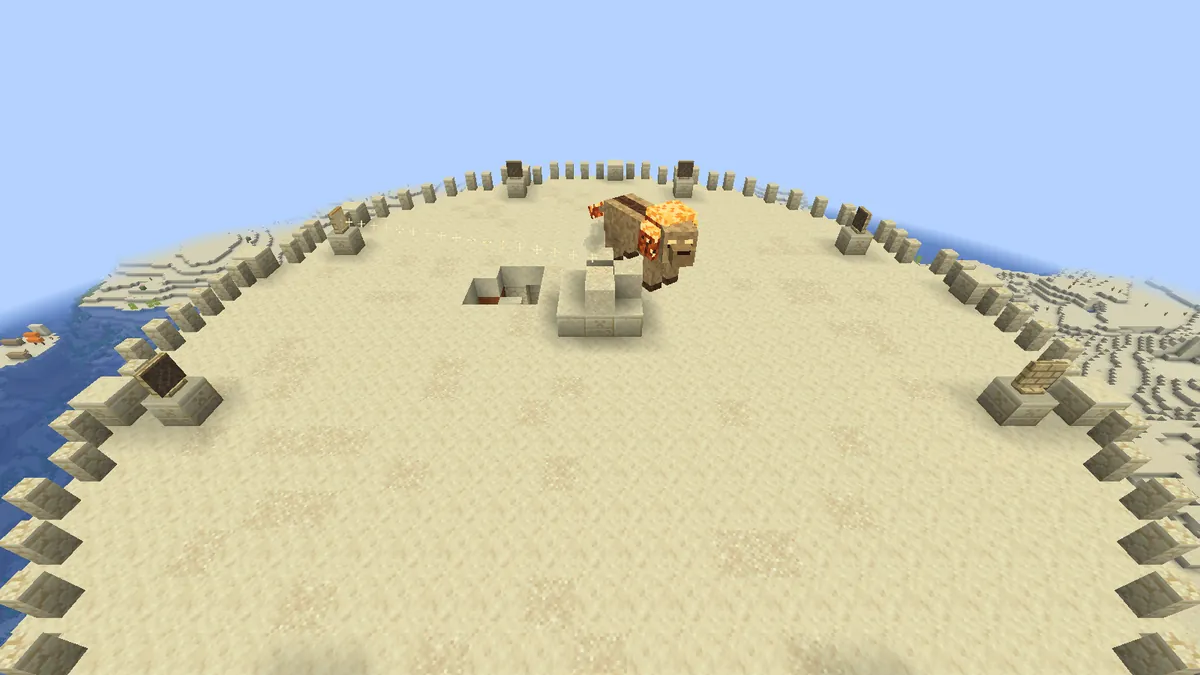
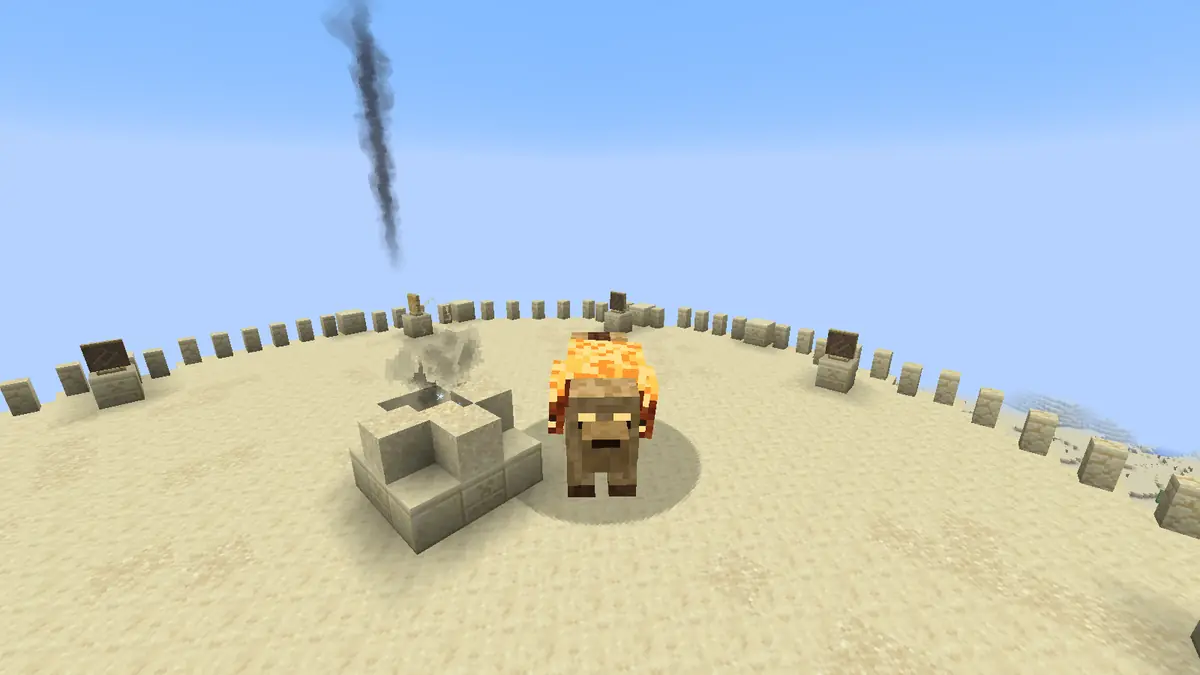
오픈크래프트 소개: 스크린샷을 0.4.0 베타 1 화면으로 새로 찍어 바꿈 (세 지역 탑 · 보스 · 야영지 · 필드몹, 켜진 봉화, 대장간 · 일지, 9장 → 13장, 무게는 그대로)

diff --git a/p/opencraft/index.html b/p/opencraft/index.html
@@ -73,104 +73,148 @@
       <div class="gallery">
         <figure>
           <button class="shot" type="button" popovertarget="lb-swamp-tower" aria-label="크게 보기: 늪 봉화탑">
-            <img src="../../assets/opencraft/swamp-tower-t.webp" srcset="../../assets/opencraft/swamp-tower-t.webp 400w, ../../assets/opencraft/swamp-tower.webp 1200w" sizes="(max-width: 920px) 100vw, 780px" alt="숲과 물가 사이에 선 이끼 낀 석재 · 맹그로브 늪 봉화탑, 하늘에 멀리 켜진 봉화 기둥" width="1200" height="675">
+            <img src="../../assets/opencraft/swamp-tower-t.webp" srcset="../../assets/opencraft/swamp-tower-t.webp 400w, ../../assets/opencraft/swamp-tower.webp 1200w" sizes="(max-width: 920px) 100vw, 780px" alt="물가 숲 사이에 선 이끼 낀 석재 · 맹그로브 늪 봉화탑과 둘레의 바다 · 모래톱" width="1200" height="675">
           </button>
-          <figcaption>늪 봉화탑. 이끼 낀 석재 · 맹그로브 탑이 물가에 섭니다. 하늘의 불빛 줄기는 멀리 켜진 다른 봉화입니다.</figcaption>
+          <figcaption>늪 봉화탑. 이끼 낀 석재 · 맹그로브 탑이 물가에 섭니다. 꼭대기 전투장에 보스가 잠들어 있습니다.</figcaption>
         </figure>
         <figure>
           <button class="shot" type="button" popovertarget="lb-swamp-boss" aria-label="크게 보기: 썩은 뿌리">
-            <img src="../../assets/opencraft/swamp-boss-t.webp" srcset="../../assets/opencraft/swamp-boss-t.webp 400w, ../../assets/opencraft/swamp-boss.webp 1200w" sizes="(max-width: 600px) 100vw, 380px" alt="이끼 낀 돌 전투장 위의 보스 썩은 뿌리와 둘레의 맹그로브 울타리 · 수문" width="400" height="225" loading="lazy">
+            <img src="../../assets/opencraft/swamp-boss-t.webp" srcset="../../assets/opencraft/swamp-boss-t.webp 400w, ../../assets/opencraft/swamp-boss.webp 1200w" sizes="(max-width: 600px) 100vw, 380px" alt="이끼 낀 돌 전투장 위에서 뿌리를 뻗은 보스 썩은 뿌리와 봉화대, 둘레의 맹그로브 울타리" width="400" height="225" loading="lazy">
           </button>
           <figcaption>보스 썩은 뿌리. 전투장이 물에 잠기면 둘레의 수문을 모두 열어 물을 빼야 크게 맞습니다.</figcaption>
         </figure>
         <figure>
-          <button class="shot" type="button" popovertarget="lb-desert-boss" aria-label="크게 보기: 그을린 갈기와 거울">
-            <img src="../../assets/opencraft/desert-boss-t.webp" srcset="../../assets/opencraft/desert-boss-t.webp 400w, ../../assets/opencraft/desert-boss.webp 1200w" sizes="(max-width: 600px) 100vw, 380px" alt="사막 전투장 위의 보스 그을린 갈기, 둘레의 거울에서 봉화대로 이어지는 빛 줄기" width="400" height="225" loading="lazy">
+          <button class="shot" type="button" popovertarget="lb-swamp-camp" aria-label="크게 보기: 늪 야영지">
+            <img src="../../assets/opencraft/swamp-camp-t.webp" srcset="../../assets/opencraft/swamp-camp-t.webp 400w, ../../assets/opencraft/swamp-camp.webp 1200w" sizes="(max-width: 600px) 100vw, 380px" alt="물에 반쯤 잠긴 가라앉은 오두막 야영지와 늪 우두머리, 뒤로 보이는 늪 봉화탑" width="400" height="225" loading="lazy">
           </button>
-          <figcaption>보스 그을린 갈기. 봉화대 곁으로 물러나면 거울을 돌려 빛을 봉화대에 모읍니다.</figcaption>
+          <figcaption>늪 야영지 가라앉은 오두막. 앞은 늪 우두머리, 뒤로 늪 봉화탑이 보입니다.</figcaption>
         </figure>
         <figure>
           <button class="shot" type="button" popovertarget="lb-desert-tower" aria-label="크게 보기: 사막 봉화탑">
-            <img src="../../assets/opencraft/desert-tower-t.webp" srcset="../../assets/opencraft/desert-tower-t.webp 400w, ../../assets/opencraft/desert-tower.webp 1200w" sizes="(max-width: 600px) 100vw, 380px" alt="모래 언덕과 바다 사이에 선 사암 · 테라코타 사막 봉화탑, 꼭대기에서 연기가 오름" width="400" height="225" loading="lazy">
+            <img src="../../assets/opencraft/desert-tower-t.webp" srcset="../../assets/opencraft/desert-tower-t.webp 400w, ../../assets/opencraft/desert-tower.webp 1200w" sizes="(max-width: 600px) 100vw, 380px" alt="모래 언덕과 바다 사이에 선 사암 · 테라코타 사막 봉화탑과 곁의 대장간" width="400" height="225" loading="lazy">
           </button>
-          <figcaption>사막 봉화탑. 사암 · 테라코타 탑이 사막 가운데에 섭니다.</figcaption>
+          <figcaption>사막 봉화탑. 사암 · 테라코타 탑이 사막 가운데에 섭니다. 아래 작은 지붕은 봉화탑 대장간입니다.</figcaption>
         </figure>
         <figure>
-          <button class="shot" type="button" popovertarget="lb-tower" aria-label="크게 보기: 설원 봉화탑">
-            <img src="../../assets/opencraft/tower-t.webp" srcset="../../assets/opencraft/tower-t.webp 400w, ../../assets/opencraft/tower.webp 1200w" sizes="(max-width: 600px) 100vw, 380px" alt="눈 덮인 산 위에 선 꺼진 설원 봉화탑, 꼭대기에 보스 전투장" width="400" height="225" loading="lazy">
+          <button class="shot" type="button" popovertarget="lb-desert-boss" aria-label="크게 보기: 그을린 갈기">
+            <img src="../../assets/opencraft/desert-boss-t.webp" srcset="../../assets/opencraft/desert-boss-t.webp 400w, ../../assets/opencraft/desert-boss.webp 1200w" sizes="(max-width: 600px) 100vw, 380px" alt="사막 전투장 봉화대 곁에서 갈기가 타오르는 보스 그을린 갈기" width="400" height="225" loading="lazy">
+          </button>
+          <figcaption>보스 그을린 갈기. 봉화대 곁으로 물러나면 둘레의 거울을 돌려 빛을 봉화대에 모읍니다.</figcaption>
+        </figure>
+        <figure>
+          <button class="shot" type="button" popovertarget="lb-desert-camp" aria-label="크게 보기: 사막 야영지">
+            <img src="../../assets/opencraft/desert-camp-t.webp" srcset="../../assets/opencraft/desert-camp-t.webp 400w, ../../assets/opencraft/desert-camp.webp 1200w" sizes="(max-width: 600px) 100vw, 380px" alt="강가 모래톱 위의 무너진 대상 야영지와 차양 · 짐 사이의 모래 무리, 앞쪽의 모래 우두머리" width="400" height="225" loading="lazy">
+          </button>
+          <figcaption>사막 야영지 무너진 대상. 우두머리가 무리를 거느리고, 쓸어내면 상자를 엽니다.</figcaption>
+        </figure>
+        <figure>
+          <button class="shot" type="button" popovertarget="lb-desert-mobs" aria-label="크게 보기: 사막 필드몹">
+            <img src="../../assets/opencraft/desert-mobs-t.webp" srcset="../../assets/opencraft/desert-mobs-t.webp 400w, ../../assets/opencraft/desert-mobs.webp 1200w" sizes="(max-width: 600px) 100vw, 380px" alt="모래 언덕 앞에 선 모래 잠행자 · 바람 투석꾼 · 모래 우두머리" width="400" height="225" loading="lazy">
+          </button>
+          <figcaption>사막 필드몹. 모래 잠행자 · 바람 투석꾼, 오른쪽은 야영지의 모래 우두머리.</figcaption>
+        </figure>
+        <figure>
+          <button class="shot" type="button" popovertarget="lb-snow-tower" aria-label="크게 보기: 설원 봉화탑">
+            <img src="../../assets/opencraft/snow-tower-t.webp" srcset="../../assets/opencraft/snow-tower-t.webp 400w, ../../assets/opencraft/snow-tower.webp 1200w" sizes="(max-width: 600px) 100vw, 380px" alt="눈 덮인 숲 언덕 위에 선 설원 봉화탑과 곁의 대장간" width="400" height="225" loading="lazy">
           </button>
           <figcaption>설원 봉화탑. 꼭대기 전투장에 보스가 잠들어 있고, 쓰러뜨리면 봉화가 켜집니다.</figcaption>
         </figure>
         <figure>
-          <button class="shot" type="button" popovertarget="lb-boss" aria-label="크게 보기: 서리 큰뿔 얼음 갑옷">
-            <img src="../../assets/opencraft/boss-t.webp" srcset="../../assets/opencraft/boss-t.webp 400w, ../../assets/opencraft/boss.webp 1200w" sizes="(max-width: 600px) 100vw, 380px" alt="전투장 위의 보스 서리 큰뿔과 둘레의 꺼진 화로" width="400" height="225" loading="lazy">
+          <button class="shot" type="button" popovertarget="lb-snow-boss" aria-label="크게 보기: 서리 큰뿔">
+            <img src="../../assets/opencraft/snow-boss-t.webp" srcset="../../assets/opencraft/snow-boss-t.webp 400w, ../../assets/opencraft/snow-boss.webp 1200w" sizes="(max-width: 600px) 100vw, 380px" alt="얼음 갑옷을 두른 보스 서리 큰뿔과 봉화대, 뒤로 불이 켜진 화로" width="400" height="225" loading="lazy">
           </button>
-          <figcaption>보스 서리 큰뿔. 얼음 갑옷을 두르면 불씨를 날라 화로를 켭니다.</figcaption>
+          <figcaption>보스 서리 큰뿔. 얼음 갑옷을 두르면 불씨를 날라 둘레의 화로를 켭니다.</figcaption>
         </figure>
         <figure>
-          <button class="shot" type="button" popovertarget="lb-arena" aria-label="크게 보기: 전투장">
-            <img src="../../assets/opencraft/arena-t.webp" srcset="../../assets/opencraft/arena-t.webp 400w, ../../assets/opencraft/arena.webp 1200w" sizes="(max-width: 600px) 100vw, 380px" alt="위에서 내려다본 봉화탑 꼭대기의 둥근 전투장" width="400" height="225" loading="lazy">
+          <button class="shot" type="button" popovertarget="lb-snow-mobs" aria-label="크게 보기: 설원 필드몹">
+            <img src="../../assets/opencraft/snow-mobs-t.webp" srcset="../../assets/opencraft/snow-mobs-t.webp 400w, ../../assets/opencraft/snow-mobs.webp 1200w" sizes="(max-width: 600px) 100vw, 380px" alt="숲 풀밭에 선 서리 늑대 · 얼음 투척꾼 · 야영지 우두머리" width="400" height="225" loading="lazy">
           </button>
-          <figcaption>위에서 본 전투장. 사람이 오면 정리되고 보호됩니다.</figcaption>
+          <figcaption>설원 필드몹. 서리 늑대 · 얼음 투척꾼, 오른쪽은 야영지 우두머리.</figcaption>
         </figure>
         <figure>
-          <button class="shot" type="button" popovertarget="lb-forge" aria-label="크게 보기: 봉화탑 대장간">
-            <img src="../../assets/opencraft/forge-t.webp" srcset="../../assets/opencraft/forge-t.webp 400w, ../../assets/opencraft/forge.webp 1200w" sizes="(max-width: 600px) 100vw, 380px" alt="처마 아래 대장간 모루 뒤에 선 봉화지기" width="400" height="225" loading="lazy">
+          <button class="shot" type="button" popovertarget="lb-night" aria-label="크게 보기: 켜진 봉화">
+            <img src="../../assets/opencraft/night-t.webp" srcset="../../assets/opencraft/night-t.webp 400w, ../../assets/opencraft/night.webp 1200w" sizes="(max-width: 600px) 100vw, 380px" alt="밤하늘로 불빛 기둥이 솟은 해방된 설원 봉화탑" width="400" height="225" loading="lazy">
           </button>
-          <figcaption>봉화탑 대장간과 봉화지기. 수리 · 옵션 추가 · 재설정.</figcaption>
+          <figcaption>해방한 봉화탑. 보스를 처음 쓰러뜨리면 봉화가 켜지고, 밤에는 멀리서도 불빛 기둥이 보입니다.</figcaption>
         </figure>
         <figure>
-          <button class="shot" type="button" popovertarget="lb-journal" aria-label="크게 보기: 모험 일지 능력 탭">
-            <img src="../../assets/opencraft/journal-t.webp" srcset="../../assets/opencraft/journal-t.webp 400w, ../../assets/opencraft/journal.webp 1200w" sizes="(max-width: 600px) 100vw, 380px" alt="모험 일지 능력 탭: 서리 길과 추위 막기의 강화 단계와 재료" width="400" height="225" loading="lazy">
+          <button class="shot" type="button" popovertarget="lb-forge" aria-label="크게 보기: 대장간">
+            <img src="../../assets/opencraft/forge-t.webp" srcset="../../assets/opencraft/forge-t.webp 400w, ../../assets/opencraft/forge.webp 1200w" sizes="(max-width: 600px) 100vw, 380px" alt="봉화탑 대장간 화면: 장비 옵션 두 줄과 수리 · 옵션 추가 · 재설정 · 분해 단추" width="400" height="225" loading="lazy">
           </button>
-          <figcaption>모험 일지의 능력 탭. 보스 재료로 능력을 강화합니다.</figcaption>
+          <figcaption>봉화탑 대장간. 지역 결정으로 수리하고 옵션을 더하거나 다시 굴립니다.</figcaption>
+        </figure>
+        <figure>
+          <button class="shot" type="button" popovertarget="lb-journal" aria-label="크게 보기: 모험 일지">
+            <img src="../../assets/opencraft/journal-t.webp" srcset="../../assets/opencraft/journal-t.webp 400w, ../../assets/opencraft/journal.webp 1200w" sizes="(max-width: 600px) 100vw, 380px" alt="모험 일지 장비 탭: 부위별 옵션, 몸 전체 합계, 수렁 세트 3/5 효과" width="400" height="225" loading="lazy">
+          </button>
+          <figcaption>모험 일지의 장비 탭. 입은 장비의 옵션 합계와 지역 세트 효과를 봅니다.</figcaption>
         </figure>
       </div>
-      <p class="shot-note">개발 중 화면입니다. 텍스처 · 모델 · 이펙트는 계속 다듬고 있습니다.</p>
+      <p class="shot-note">0.4.0 베타 1 게임 화면입니다 (HUD를 숨기고 찍음). 텍스처 · 모델 · 이펙트는 계속 다듬고 있습니다.</p>
 
       <div class="lb" popover id="lb-swamp-tower">
-        <img src="../../assets/opencraft/swamp-tower.webp" alt="숲과 물가 사이에 선 이끼 낀 석재 · 맹그로브 늪 봉화탑, 하늘에 멀리 켜진 봉화 기둥" width="1200" height="675" loading="lazy">
-        <p>늪 봉화탑. 이끼 낀 석재 · 맹그로브 탑이 물가에 섭니다. 하늘의 불빛 줄기는 멀리 켜진 다른 봉화입니다.</p>
+        <img src="../../assets/opencraft/swamp-tower.webp" alt="물가 숲 사이에 선 이끼 낀 석재 · 맹그로브 늪 봉화탑과 둘레의 바다 · 모래톱" width="1200" height="675" loading="lazy">
+        <p>늪 봉화탑. 이끼 낀 석재 · 맹그로브 탑이 물가에 섭니다. 꼭대기 전투장에 보스가 잠들어 있습니다.</p>
         <button class="lb-close" type="button" popovertarget="lb-swamp-tower" popovertargetaction="hide" aria-label="닫기"><svg viewBox="0 0 24 24" fill="none" stroke="currentColor" stroke-width="2.4" stroke-linecap="round" aria-hidden="true"><path d="M6 6l12 12M18 6L6 18"/></svg></button>
       </div>
       <div class="lb" popover id="lb-swamp-boss">
-        <img src="../../assets/opencraft/swamp-boss.webp" alt="이끼 낀 돌 전투장 위의 보스 썩은 뿌리와 둘레의 맹그로브 울타리 · 수문" width="1200" height="675" loading="lazy">
+        <img src="../../assets/opencraft/swamp-boss.webp" alt="이끼 낀 돌 전투장 위에서 뿌리를 뻗은 보스 썩은 뿌리와 봉화대, 둘레의 맹그로브 울타리" width="1200" height="675" loading="lazy">
         <p>보스 썩은 뿌리. 전투장이 물에 잠기면 둘레의 수문을 모두 열어 물을 빼야 크게 맞습니다.</p>
         <button class="lb-close" type="button" popovertarget="lb-swamp-boss" popovertargetaction="hide" aria-label="닫기"><svg viewBox="0 0 24 24" fill="none" stroke="currentColor" stroke-width="2.4" stroke-linecap="round" aria-hidden="true"><path d="M6 6l12 12M18 6L6 18"/></svg></button>
       </div>
-      <div class="lb" popover id="lb-desert-boss">
-        <img src="../../assets/opencraft/desert-boss.webp" alt="사막 전투장 위의 보스 그을린 갈기, 둘레의 거울에서 봉화대로 이어지는 빛 줄기" width="1200" height="675" loading="lazy">
-        <p>보스 그을린 갈기. 봉화대 곁으로 물러나면 거울을 돌려 빛을 봉화대에 모읍니다.</p>
-        <button class="lb-close" type="button" popovertarget="lb-desert-boss" popovertargetaction="hide" aria-label="닫기"><svg viewBox="0 0 24 24" fill="none" stroke="currentColor" stroke-width="2.4" stroke-linecap="round" aria-hidden="true"><path d="M6 6l12 12M18 6L6 18"/></svg></button>
+      <div class="lb" popover id="lb-swamp-camp">
+        <img src="../../assets/opencraft/swamp-camp.webp" alt="물에 반쯤 잠긴 가라앉은 오두막 야영지와 늪 우두머리, 뒤로 보이는 늪 봉화탑" width="1200" height="675" loading="lazy">
+        <p>늪 야영지 가라앉은 오두막. 앞은 늪 우두머리, 뒤로 늪 봉화탑이 보입니다.</p>
+        <button class="lb-close" type="button" popovertarget="lb-swamp-camp" popovertargetaction="hide" aria-label="닫기"><svg viewBox="0 0 24 24" fill="none" stroke="currentColor" stroke-width="2.4" stroke-linecap="round" aria-hidden="true"><path d="M6 6l12 12M18 6L6 18"/></svg></button>
       </div>
       <div class="lb" popover id="lb-desert-tower">
-        <img src="../../assets/opencraft/desert-tower.webp" alt="모래 언덕과 바다 사이에 선 사암 · 테라코타 사막 봉화탑, 꼭대기에서 연기가 오름" width="1200" height="675" loading="lazy">
-        <p>사막 봉화탑. 사암 · 테라코타 탑이 사막 가운데에 섭니다.</p>
+        <img src="../../assets/opencraft/desert-tower.webp" alt="모래 언덕과 바다 사이에 선 사암 · 테라코타 사막 봉화탑과 곁의 대장간" width="1200" height="675" loading="lazy">
+        <p>사막 봉화탑. 사암 · 테라코타 탑이 사막 가운데에 섭니다. 아래 작은 지붕은 봉화탑 대장간입니다.</p>
         <button class="lb-close" type="button" popovertarget="lb-desert-tower" popovertargetaction="hide" aria-label="닫기"><svg viewBox="0 0 24 24" fill="none" stroke="currentColor" stroke-width="2.4" stroke-linecap="round" aria-hidden="true"><path d="M6 6l12 12M18 6L6 18"/></svg></button>
       </div>
-      <div class="lb" popover id="lb-tower">
-        <img src="../../assets/opencraft/tower.webp" alt="눈 덮인 산 위에 선 꺼진 설원 봉화탑, 꼭대기에 보스 전투장" width="1200" height="675" loading="lazy">
+      <div class="lb" popover id="lb-desert-boss">
+        <img src="../../assets/opencraft/desert-boss.webp" alt="사막 전투장 봉화대 곁에서 갈기가 타오르는 보스 그을린 갈기" width="1200" height="675" loading="lazy">
+        <p>보스 그을린 갈기. 봉화대 곁으로 물러나면 둘레의 거울을 돌려 빛을 봉화대에 모읍니다.</p>
+        <button class="lb-close" type="button" popovertarget="lb-desert-boss" popovertargetaction="hide" aria-label="닫기"><svg viewBox="0 0 24 24" fill="none" stroke="currentColor" stroke-width="2.4" stroke-linecap="round" aria-hidden="true"><path d="M6 6l12 12M18 6L6 18"/></svg></button>
+      </div>
+      <div class="lb" popover id="lb-desert-camp">
+        <img src="../../assets/opencraft/desert-camp.webp" alt="강가 모래톱 위의 무너진 대상 야영지와 차양 · 짐 사이의 모래 무리, 앞쪽의 모래 우두머리" width="1200" height="675" loading="lazy">
+        <p>사막 야영지 무너진 대상. 우두머리가 무리를 거느리고, 쓸어내면 상자를 엽니다.</p>
+        <button class="lb-close" type="button" popovertarget="lb-desert-camp" popovertargetaction="hide" aria-label="닫기"><svg viewBox="0 0 24 24" fill="none" stroke="currentColor" stroke-width="2.4" stroke-linecap="round" aria-hidden="true"><path d="M6 6l12 12M18 6L6 18"/></svg></button>
+      </div>
+      <div class="lb" popover id="lb-desert-mobs">
+        <img src="../../assets/opencraft/desert-mobs.webp" alt="모래 언덕 앞에 선 모래 잠행자 · 바람 투석꾼 · 모래 우두머리" width="1200" height="675" loading="lazy">
+        <p>사막 필드몹. 모래 잠행자 · 바람 투석꾼, 오른쪽은 야영지의 모래 우두머리.</p>
+        <button class="lb-close" type="button" popovertarget="lb-desert-mobs" popovertargetaction="hide" aria-label="닫기"><svg viewBox="0 0 24 24" fill="none" stroke="currentColor" stroke-width="2.4" stroke-linecap="round" aria-hidden="true"><path d="M6 6l12 12M18 6L6 18"/></svg></button>
+      </div>
+      <div class="lb" popover id="lb-snow-tower">
+        <img src="../../assets/opencraft/snow-tower.webp" alt="눈 덮인 숲 언덕 위에 선 설원 봉화탑과 곁의 대장간" width="1200" height="675" loading="lazy">
         <p>설원 봉화탑. 꼭대기 전투장에 보스가 잠들어 있고, 쓰러뜨리면 봉화가 켜집니다.</p>
-        <button class="lb-close" type="button" popovertarget="lb-tower" popovertargetaction="hide" aria-label="닫기"><svg viewBox="0 0 24 24" fill="none" stroke="currentColor" stroke-width="2.4" stroke-linecap="round" aria-hidden="true"><path d="M6 6l12 12M18 6L6 18"/></svg></button>
+        <button class="lb-close" type="button" popovertarget="lb-snow-tower" popovertargetaction="hide" aria-label="닫기"><svg viewBox="0 0 24 24" fill="none" stroke="currentColor" stroke-width="2.4" stroke-linecap="round" aria-hidden="true"><path d="M6 6l12 12M18 6L6 18"/></svg></button>
       </div>
-      <div class="lb" popover id="lb-boss">
-        <img src="../../assets/opencraft/boss.webp" alt="전투장 위의 보스 서리 큰뿔과 둘레의 꺼진 화로" width="1200" height="675" loading="lazy">
-        <p>보스 서리 큰뿔. 얼음 갑옷을 두르면 불씨를 날라 화로를 켭니다.</p>
-        <button class="lb-close" type="button" popovertarget="lb-boss" popovertargetaction="hide" aria-label="닫기"><svg viewBox="0 0 24 24" fill="none" stroke="currentColor" stroke-width="2.4" stroke-linecap="round" aria-hidden="true"><path d="M6 6l12 12M18 6L6 18"/></svg></button>
+      <div class="lb" popover id="lb-snow-boss">
+        <img src="../../assets/opencraft/snow-boss.webp" alt="얼음 갑옷을 두른 보스 서리 큰뿔과 봉화대, 뒤로 불이 켜진 화로" width="1200" height="675" loading="lazy">
+        <p>보스 서리 큰뿔. 얼음 갑옷을 두르면 불씨를 날라 둘레의 화로를 켭니다.</p>
+        <button class="lb-close" type="button" popovertarget="lb-snow-boss" popovertargetaction="hide" aria-label="닫기"><svg viewBox="0 0 24 24" fill="none" stroke="currentColor" stroke-width="2.4" stroke-linecap="round" aria-hidden="true"><path d="M6 6l12 12M18 6L6 18"/></svg></button>
       </div>
-      <div class="lb" popover id="lb-arena">
-        <img src="../../assets/opencraft/arena.webp" alt="위에서 내려다본 봉화탑 꼭대기의 둥근 전투장" width="1200" height="675" loading="lazy">
-        <p>위에서 본 전투장. 사람이 오면 정리되고 보호됩니다.</p>
-        <button class="lb-close" type="button" popovertarget="lb-arena" popovertargetaction="hide" aria-label="닫기"><svg viewBox="0 0 24 24" fill="none" stroke="currentColor" stroke-width="2.4" stroke-linecap="round" aria-hidden="true"><path d="M6 6l12 12M18 6L6 18"/></svg></button>
+      <div class="lb" popover id="lb-snow-mobs">
+        <img src="../../assets/opencraft/snow-mobs.webp" alt="숲 풀밭에 선 서리 늑대 · 얼음 투척꾼 · 야영지 우두머리" width="1200" height="675" loading="lazy">
+        <p>설원 필드몹. 서리 늑대 · 얼음 투척꾼, 오른쪽은 야영지 우두머리.</p>
+        <button class="lb-close" type="button" popovertarget="lb-snow-mobs" popovertargetaction="hide" aria-label="닫기"><svg viewBox="0 0 24 24" fill="none" stroke="currentColor" stroke-width="2.4" stroke-linecap="round" aria-hidden="true"><path d="M6 6l12 12M18 6L6 18"/></svg></button>
+      </div>
+      <div class="lb" popover id="lb-night">
+        <img src="../../assets/opencraft/night.webp" alt="밤하늘로 불빛 기둥이 솟은 해방된 설원 봉화탑" width="1200" height="675" loading="lazy">
+        <p>해방한 봉화탑. 보스를 처음 쓰러뜨리면 봉화가 켜지고, 밤에는 멀리서도 불빛 기둥이 보입니다.</p>
+        <button class="lb-close" type="button" popovertarget="lb-night" popovertargetaction="hide" aria-label="닫기"><svg viewBox="0 0 24 24" fill="none" stroke="currentColor" stroke-width="2.4" stroke-linecap="round" aria-hidden="true"><path d="M6 6l12 12M18 6L6 18"/></svg></button>
       </div>
       <div class="lb" popover id="lb-forge">
-        <img src="../../assets/opencraft/forge.webp" alt="처마 아래 대장간 모루 뒤에 선 봉화지기" width="1200" height="675" loading="lazy">
-        <p>봉화탑 대장간과 봉화지기. 수리 · 옵션 추가 · 재설정.</p>
+        <img src="../../assets/opencraft/forge.webp" alt="봉화탑 대장간 화면: 장비 옵션 두 줄과 수리 · 옵션 추가 · 재설정 · 분해 단추" width="1200" height="675" loading="lazy">
+        <p>봉화탑 대장간. 지역 결정으로 수리하고 옵션을 더하거나 다시 굴립니다.</p>
         <button class="lb-close" type="button" popovertarget="lb-forge" popovertargetaction="hide" aria-label="닫기"><svg viewBox="0 0 24 24" fill="none" stroke="currentColor" stroke-width="2.4" stroke-linecap="round" aria-hidden="true"><path d="M6 6l12 12M18 6L6 18"/></svg></button>
       </div>
       <div class="lb" popover id="lb-journal">
-        <img src="../../assets/opencraft/journal.webp" alt="모험 일지 능력 탭: 서리 길과 추위 막기의 강화 단계와 재료" width="1200" height="675" loading="lazy">
-        <p>모험 일지의 능력 탭. 보스 재료로 능력을 강화합니다.</p>
+        <img src="../../assets/opencraft/journal.webp" alt="모험 일지 장비 탭: 부위별 옵션, 몸 전체 합계, 수렁 세트 3/5 효과" width="1200" height="675" loading="lazy">
+        <p>모험 일지의 장비 탭. 입은 장비의 옵션 합계와 지역 세트 효과를 봅니다.</p>
         <button class="lb-close" type="button" popovertarget="lb-journal" popovertargetaction="hide" aria-label="닫기"><svg viewBox="0 0 24 24" fill="none" stroke="currentColor" stroke-width="2.4" stroke-linecap="round" aria-hidden="true"><path d="M6 6l12 12M18 6L6 18"/></svg></button>
       </div>
     </section>

diff --git a/p/opencraft/opencraft.css b/p/opencraft/opencraft.css
@@ -73,7 +73,7 @@ code { font-family: ui-monospace, SFMono-Regular, Consolas, monospace; font-size
 .hero { position: relative; isolation: isolate; overflow: hidden; border-bottom: 1px solid var(--line-soft); }
 .hero::before {
   content: ""; position: absolute; inset: 0; z-index: -2;
-  background: url("../../assets/opencraft/tower.webp") 72% 38% / cover no-repeat;
+  background: url("../../assets/opencraft/snow-tower.webp") 72% 38% / cover no-repeat;
 }
 .hero::after {
   content: ""; position: absolute; inset: 0; z-index: -1;
@@ -244,7 +244,7 @@ p.small.note { margin-top: var(--s4); }
   .col-side { position: static; display: grid; grid-template-columns: repeat(auto-fit, minmax(280px, 1fr)); align-items: start; }
 }
 @media (max-width: 900px) {
-  .hero::before { background-image: url("../../assets/opencraft/tower-t.webp"); background-position: 70% 30%; }
+  .hero::before { background-image: url("../../assets/opencraft/snow-tower-t.webp"); background-position: 70% 30%; }
   .hero::after {
     background:
       radial-gradient(80% 50% at 80% 10%, rgba(255, 150, 70, .14), transparent 60%),
